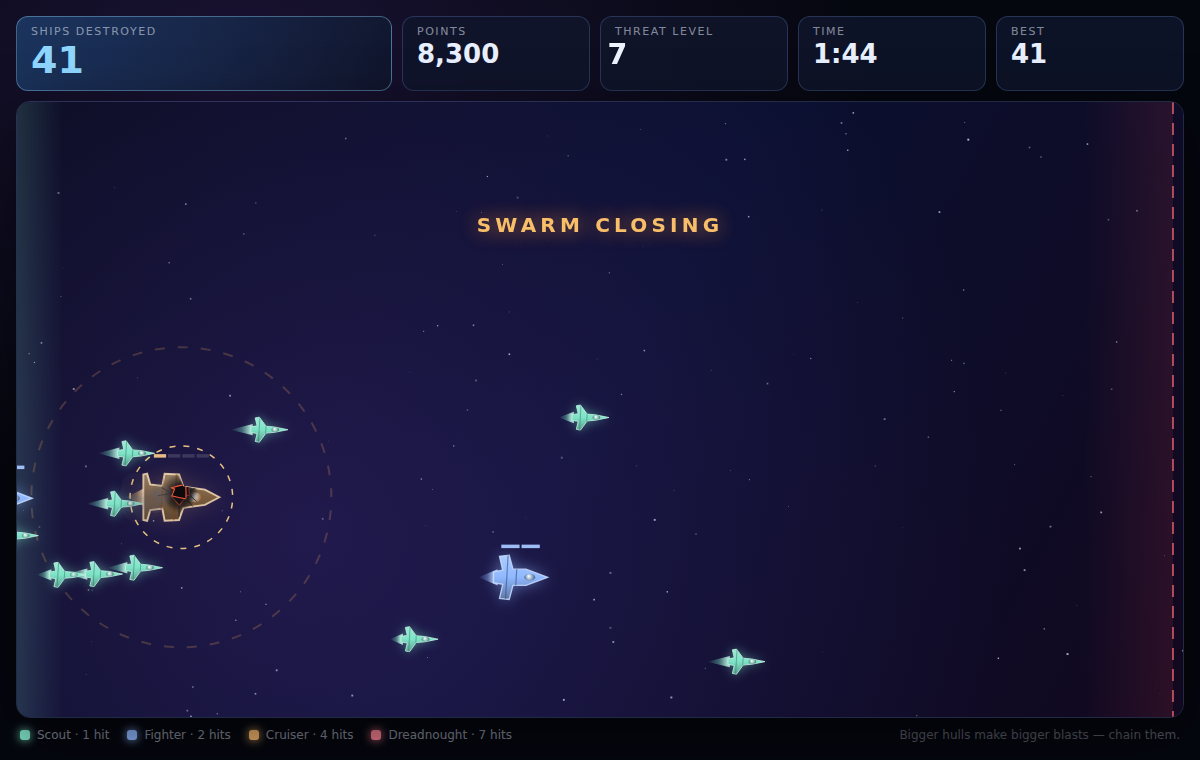
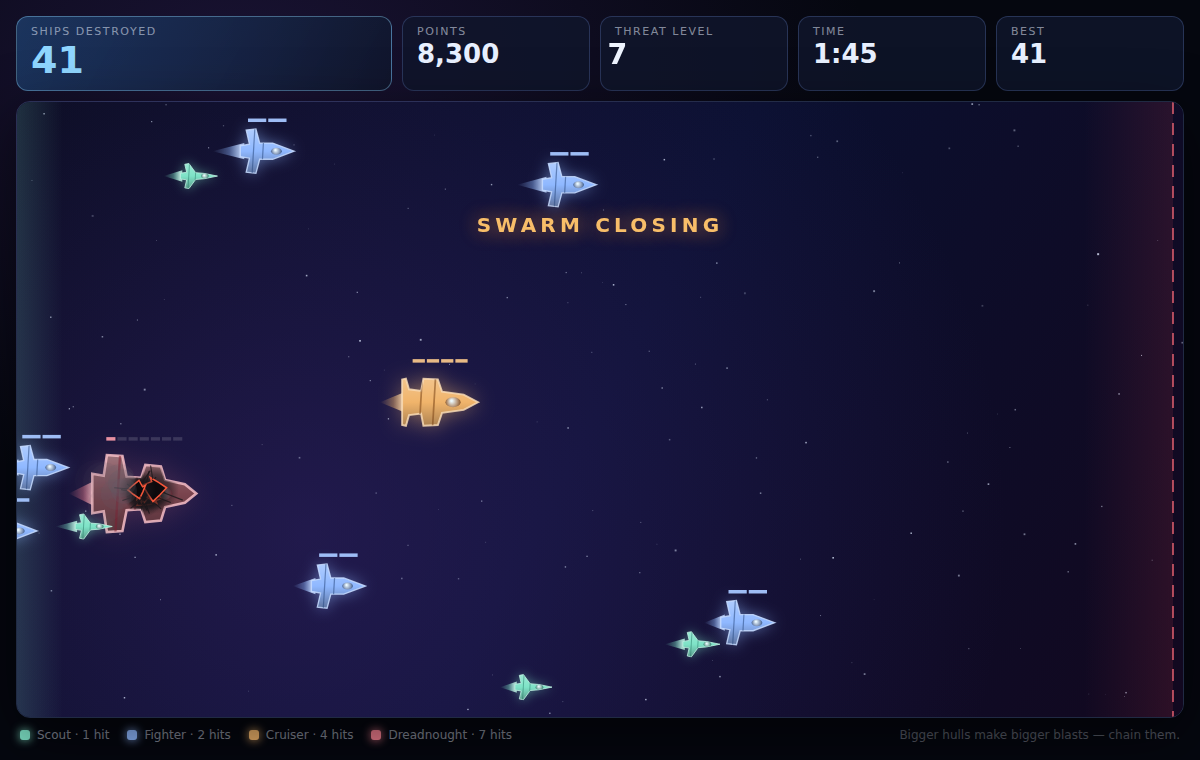
Drop the convoy anchor's dotted range rings
Per review: the blast radius should not be spelled out on screen — the
player is meant to build a feel for it. Removes both dotted circles (the
blast-reach circle and the target ring on the hull) and the now-unused
isConvoyAnchor flag that only existed to draw them.

The convoy is still telegraphed by the CONVOY INBOUND and SWARM CLOSING
banners, and how close the heavy is to detonating still reads off its
hull pips and charring, which is a felt signal rather than a drawn one.

Catch-up gradient is unchanged (1 hit lands the swarm at 47% across the
field, 2 at 29%, 3 at 15%, untouched is never caught) and the lifecycle
regression still passes. README and screenshot updated to match.

Claude-Session: https://claude.ai/code/session_01M9nUGVu5oBN985bNj2v23i

diff --git a/dist/ship.js b/dist/ship.js
@@ -7,8 +7,6 @@ export class Ship {
     constructor(type, x, y, fieldHeight) {
         this.id = nextShipId++;
         this.alive = true;
-        /** Set on the heavy ship a convoy is built around; draws the blast marker. */
-        this.isConvoyAnchor = false;
         this.scorches = [];
         /** 1 right after a hit, decaying to 0 — drives the white impact flash. */
         this.hitFlash = 0;
@@ -101,8 +99,6 @@ export class Ship {
         const severity = 1 - this.integrity;
         ctx.save();
         ctx.translate(this.x, this.y);
-        if (this.isConvoyAnchor)
-            this.drawAnchorMarker(ctx, s);
         this.drawThrust(ctx, s, severity);
         // Everything below is drawn in unit space and scaled up to the hull size.
         ctx.save();
@@ -140,36 +136,6 @@ export class Ship {
         ctx.restore();
         if (this.maxHull > 1)
             this.drawHullBar(ctx, s);
-        ctx.restore();
-    }
-    /**
-     * Convoy anchors are the player's bomb, so they advertise themselves: a
-     * dashed ring on the hull, and a faint circle showing how far the death
-     * blast reaches. Both brighten as the hull burns down — a ship one hit from
-     * death is "primed" and pulses.
-     */
-    drawAnchorMarker(ctx, s) {
-        const charge = 1 - this.integrity;
-        const primed = this.hull === 1;
-        const pulse = 0.5 + Math.sin(this.age * (primed ? 7 : 2.2)) * 0.5;
-        ctx.save();
-        // Blast reach.
-        const reachAlpha = 0.05 + charge * 0.12 + (primed ? pulse * 0.13 : 0);
-        ctx.strokeStyle = `rgba(255, 176, 90, ${reachAlpha.toFixed(3)})`;
-        ctx.lineWidth = primed ? 2 : 1.25;
-        ctx.setLineDash([10, 13]);
-        ctx.lineDashOffset = -this.age * 20;
-        ctx.beginPath();
-        ctx.arc(0, 0, this.type.blastRadius, 0, Math.PI * 2);
-        ctx.stroke();
-        // Target ring hugging the hull.
-        ctx.strokeStyle = `rgba(255, 212, 136, ${(0.45 + charge * 0.45).toFixed(3)})`;
-        ctx.lineWidth = 1.5;
-        ctx.setLineDash([6, 8]);
-        ctx.lineDashOffset = this.age * 26;
-        ctx.beginPath();
-        ctx.arc(0, 0, s * 1.35, 0, Math.PI * 2);
-        ctx.stroke();
         ctx.restore();
     }
     drawThrust(ctx, s, severity) {

diff --git a/src/ship.ts b/src/ship.ts
@@ -24,8 +24,6 @@ export class Ship {
   y: number;
   hull: number;
   alive = true;
-  /** Set on the heavy ship a convoy is built around; draws the blast marker. */
-  isConvoyAnchor = false;
 
   private baseY: number;
   private readonly driftAmplitude: number;
@@ -146,7 +144,6 @@ export class Ship {
     ctx.save();
     ctx.translate(this.x, this.y);
 
-    if (this.isConvoyAnchor) this.drawAnchorMarker(ctx, s);
     this.drawThrust(ctx, s, severity);
 
     // Everything below is drawn in unit space and scaled up to the hull size.
@@ -190,41 +187,6 @@ export class Ship {
     ctx.restore();
 
     if (this.maxHull > 1) this.drawHullBar(ctx, s);
-    ctx.restore();
-  }
-
-  /**
-   * Convoy anchors are the player's bomb, so they advertise themselves: a
-   * dashed ring on the hull, and a faint circle showing how far the death
-   * blast reaches. Both brighten as the hull burns down — a ship one hit from
-   * death is "primed" and pulses.
-   */
-  private drawAnchorMarker(ctx: CanvasRenderingContext2D, s: number): void {
-    const charge = 1 - this.integrity;
-    const primed = this.hull === 1;
-    const pulse = 0.5 + Math.sin(this.age * (primed ? 7 : 2.2)) * 0.5;
-
-    ctx.save();
-
-    // Blast reach.
-    const reachAlpha = 0.05 + charge * 0.12 + (primed ? pulse * 0.13 : 0);
-    ctx.strokeStyle = `rgba(255, 176, 90, ${reachAlpha.toFixed(3)})`;
-    ctx.lineWidth = primed ? 2 : 1.25;
-    ctx.setLineDash([10, 13]);
-    ctx.lineDashOffset = -this.age * 20;
-    ctx.beginPath();
-    ctx.arc(0, 0, this.type.blastRadius, 0, Math.PI * 2);
-    ctx.stroke();
-
-    // Target ring hugging the hull.
-    ctx.strokeStyle = `rgba(255, 212, 136, ${(0.45 + charge * 0.45).toFixed(3)})`;
-    ctx.lineWidth = 1.5;
-    ctx.setLineDash([6, 8]);
-    ctx.lineDashOffset = this.age * 26;
-    ctx.beginPath();
-    ctx.arc(0, 0, s * 1.35, 0, Math.PI * 2);
-    ctx.stroke();
-
     ctx.restore();
   }
 

diff --git a/dist/game.js b/dist/game.js
@@ -227,7 +227,6 @@ export class Game {
     startConvoy() {
         const plan = planConvoy(this.level, this.height);
         const anchor = new Ship(plan.anchorType, -plan.anchorType.radius - 6, plan.anchorY, this.height);
-        anchor.isConvoyAnchor = true;
         this.ships.push(anchor);
         this.pendingConvoy = {
             anchorY: plan.anchorY,

diff --git a/src/game.ts b/src/game.ts
@@ -276,7 +276,6 @@ export class Game {
       plan.anchorY,
       this.height,
     );
-    anchor.isConvoyAnchor = true;
     this.ships.push(anchor);
 
     this.pendingConvoy = {

diff --git a/README.md b/README.md
@@ -29,17 +29,15 @@ static server works just as well — the page loads ES modules, so opening
   cruiser in a tight formation can clear half the screen.
 - **Chains pay.** Every link in a chain reaction raises the point multiplier;
   the chain depth is shown over the wreck.
-- **Convoys are the set piece.** From threat level 3, a heavy ship arrives
-  alone, ringed with a dashed marker and a faint circle showing how far its
-  death blast reaches. Seconds later a swarm of light ships is released behind
-  it. The swarm is faster, so it closes the gap — and because damage slows the
-  heavy down, *how hard you hit it decides where they meet*. Leave it untouched
-  and the swarm never catches up; soften it and the cloud piles into your bomb
-  mid-field. Hold the last hit until they are inside the ring, then take the
-  whole formation with one click. The ring pulses once the hull is one hit from
-  death: that is your bomb, armed.
+- **Convoys are the set piece.** From threat level 3, a banner warns you that a
+  heavy ship is coming in alone. Seconds later a swarm of light ships is
+  released behind it. The swarm is faster, so it closes the gap — and because
+  damage slows the heavy down, *how hard you hit it decides where they meet*.
+  Leave it untouched and the swarm never catches up; soften it and the cloud
+  piles into your bomb mid-field. Judge the reach by eye and hold the last hit
+  until they are packed around it, then take the whole formation with one click.
 
-![a burning cruiser anchor, its blast ring drawn around it, with the scout swarm closing in](docs/convoy.png)
+![a burning cruiser leading a convoy, with the scout swarm closing in behind it](docs/convoy.png)
 
 - **Pressure ramps up.** Ships spawn faster, fly faster, and heavier classes
   join the fight as the threat level rises (one level every 16 seconds).
